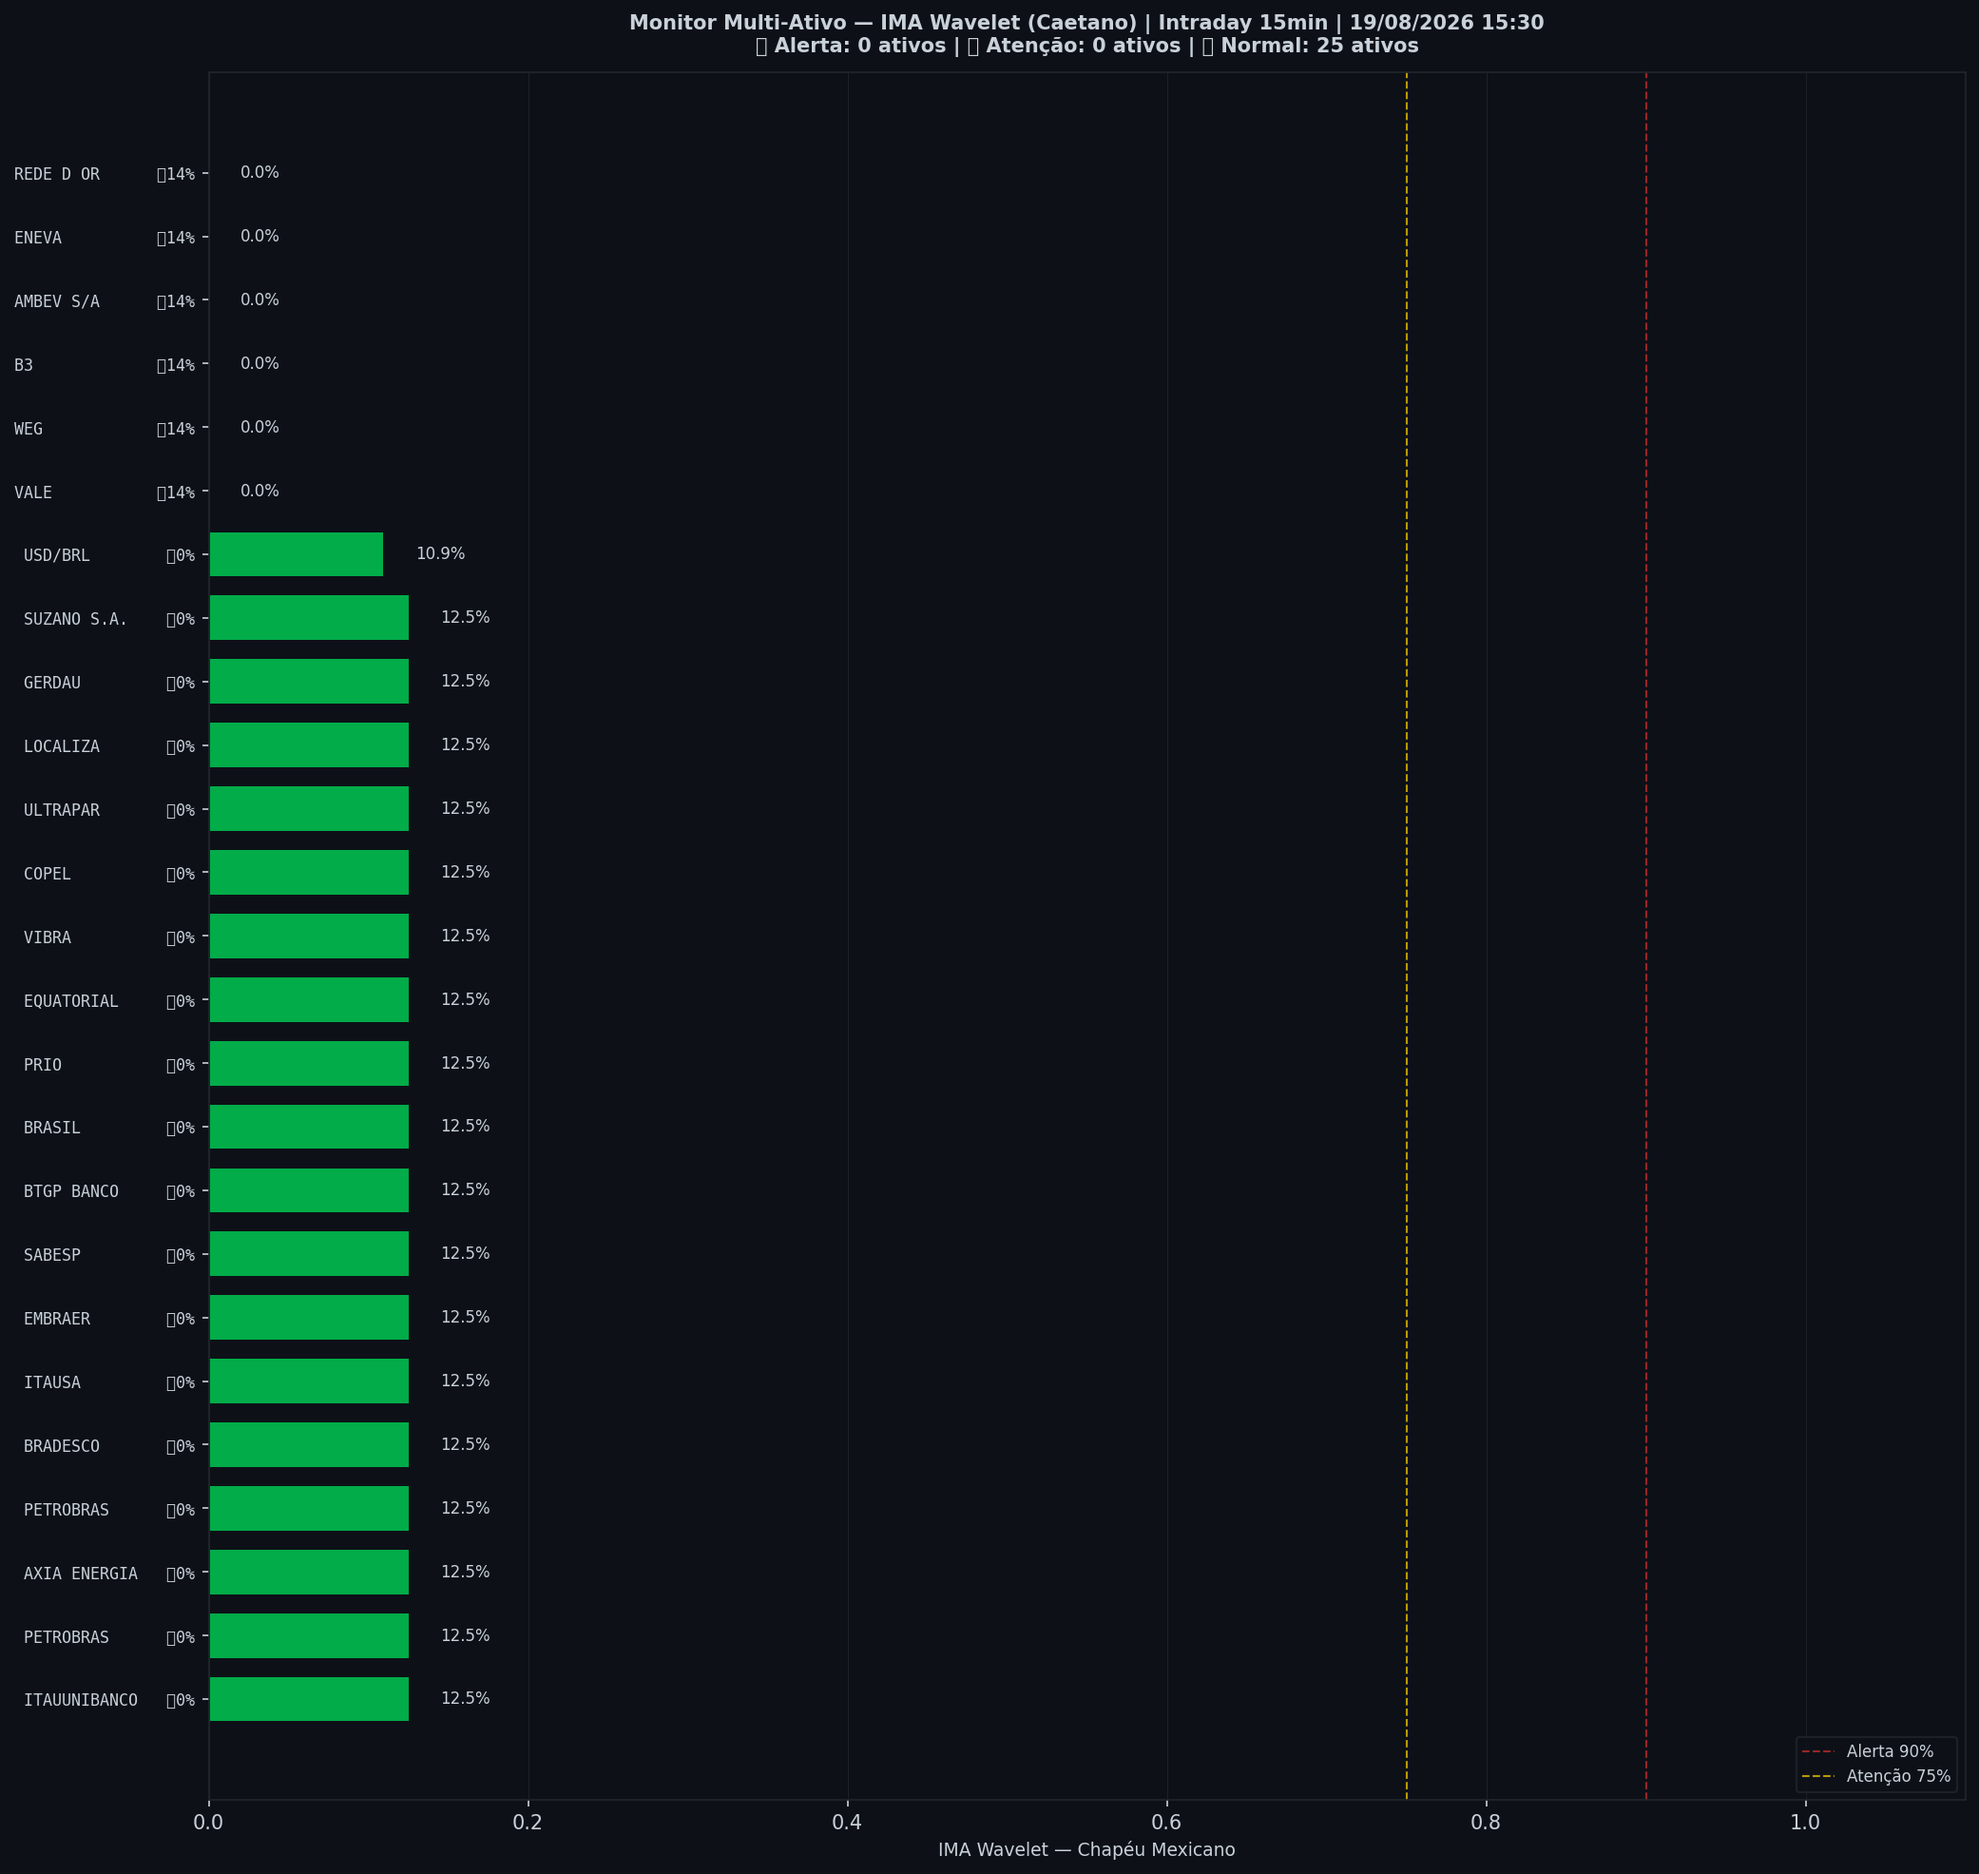
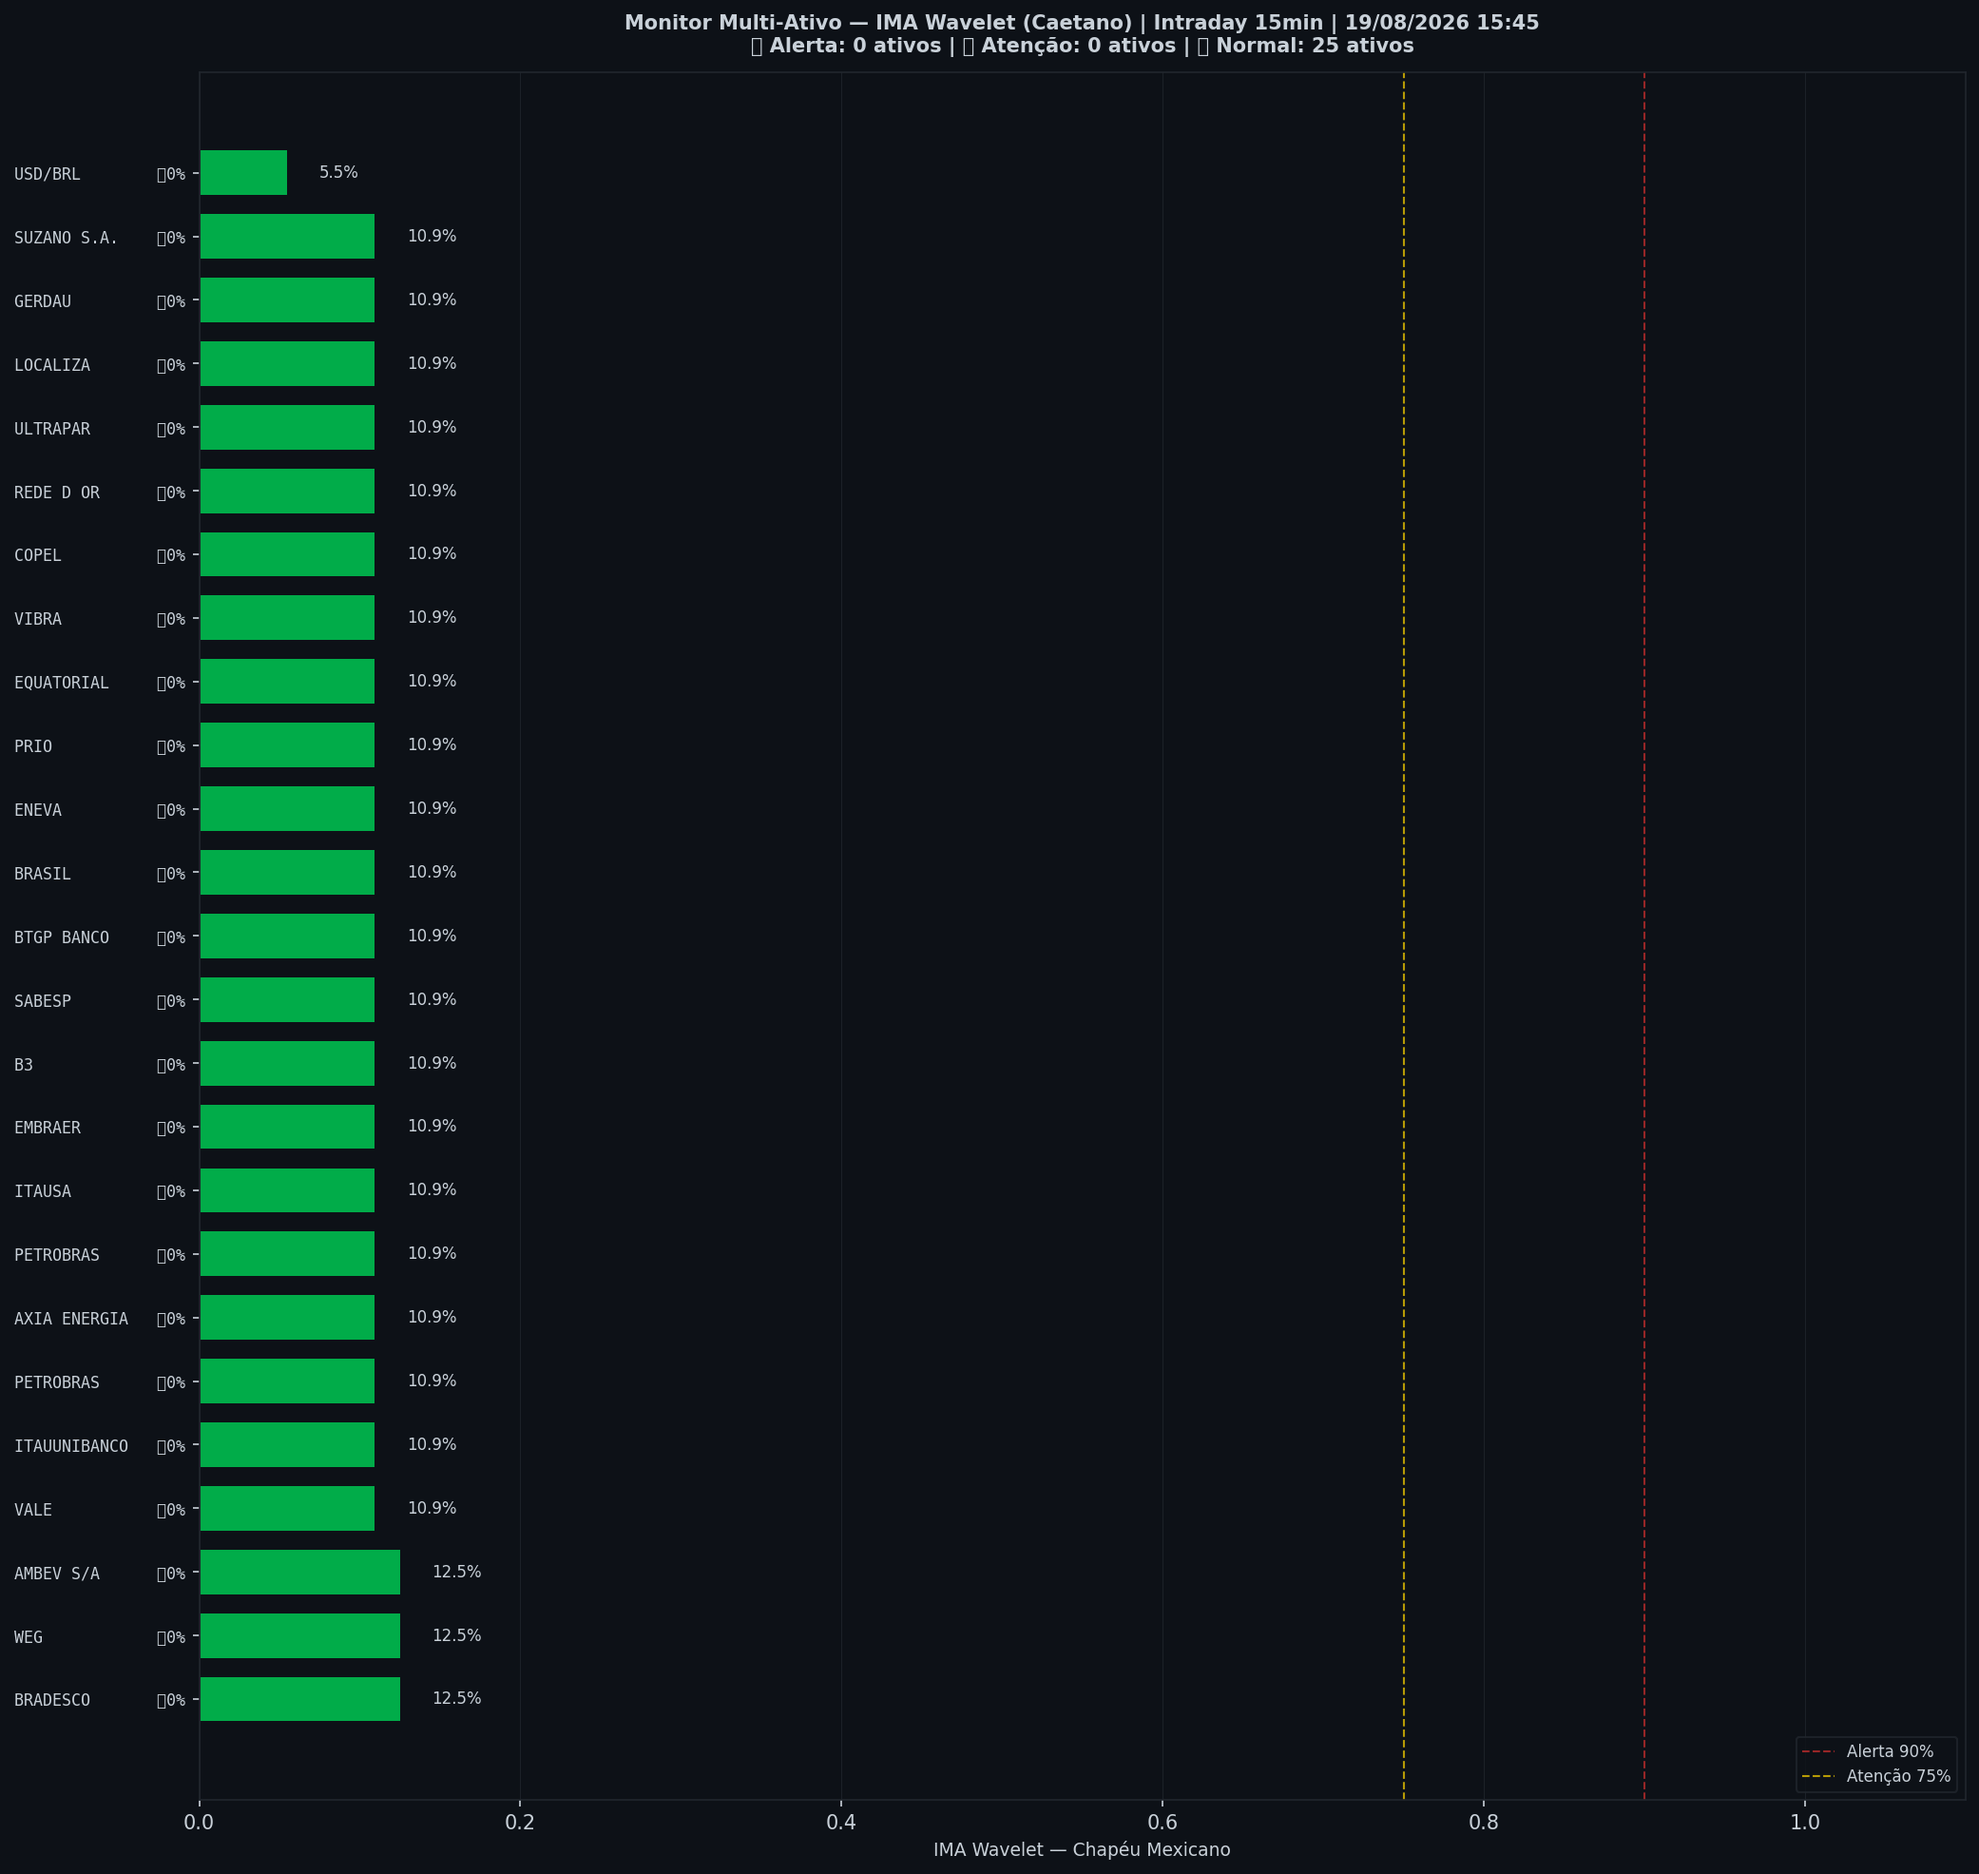
🤖 Auto: Sinal 19/08/2026 15:45

diff --git a/content/intraday/2026-08-19.md b/content/intraday/2026-08-19.md
@@ -1,20 +1,20 @@
 ---
-title: "🟡 Intraday 19/08/2026 14:45 BRT — AMARELO"
+title: "🟢 Intraday 19/08/2026 15:00 BRT — VERDE"
 date: 2026-08-19
 tags: [intraday]
 ---
 
-> [!warning] 🟡 **AMARELO** — Risco 50% · ▼ -5 p.p. vs leitura anterior
-> `██████████░░░░░░░░░░`
-> Atenção — padrão de coeficientes associado a quedas mais severas.
+> [!success] 🟢 **VERDE** — Risco 45% · ▼ -5 p.p. vs leitura anterior
+> `█████████░░░░░░░░░░░`
+> Mercado sem sinais relevantes de estresse.
 
 
 | Indicador | Valor |
 |---|---|
-| 🔴 ζ Crash — severidade da queda em curso | **50%** |
+| 🔴 ζ Crash — severidade da queda em curso | **45%** |
 | 🔵 ζ Entrada — estrutura de fundo | 0% |
 | 🫧 LPPL DS-Confidence | 0% |
-| 📊 Ibovespa | 167.955 pts |
+| 📊 Ibovespa | 167.926 pts |
 
 ![Gráfico do sinal](../graficos/sinal_intraday.png)
 
@@ -22,6 +22,7 @@ tags: [intraday]
 
 | Data | Zona | Risco | IMA Crash | Entrada | LPPL |
 |---|---|---|---|---|---|
+| 2026-08-19 15:00 | 🟢 VERDE | **45%** | 45% | 0% | 0% |
 | 2026-08-19 14:45 | 🟡 AMARELO | **50%** | 50% | 0% | 0% |
 | 2026-08-19 14:30 | 🟡 AMARELO | **55%** | 55% | 1% | 0% |
 | 2026-08-19 14:15 | 🟡 AMARELO | **63%** | 63% | 2% | 0% |
@@ -51,7 +52,6 @@ tags: [intraday]
 | 2026-08-18 15:15 | 🟢 VERDE | **35%** | 35% | 0% | 0% |
 | 2026-08-18 15:00 | 🟢 VERDE | **34%** | 34% | 0% | 0% |
 | 2026-08-18 14:45 | 🟢 VERDE | **35%** | 35% | 0% | 0% |
-| 2026-08-18 14:30 | 🟢 VERDE | **34%** | 34% | 0% | 0% |
 
 ## Monitor Multi-Ativo
 
@@ -59,35 +59,35 @@ tags: [intraday]
 
 | Zona | Ativo | Setor | IMA Crash | IMA Entrada |
 |---|---|---|---|---|
-| 🟢 | **ITAUUNIBANCO** | Financeiro | 12.5% | 0.0% |
-| 🟢 | **PETROBRAS** | Petróleo | 12.5% | 0.0% |
-| 🟢 | **AXIA ENERGIA** | Energia | 12.5% | 0.0% |
-| 🟢 | **PETROBRAS** | Petróleo | 12.5% | 0.0% |
 | 🟢 | **BRADESCO** | Financeiro | 12.5% | 0.0% |
-| 🟢 | **ITAUSA** | Financeiro | 12.5% | 0.0% |
-| 🟢 | **EMBRAER** | Outros | 12.5% | 0.0% |
-| 🟢 | **SABESP** | Saneamento | 12.5% | 0.0% |
-| 🟢 | **BTGP BANCO** | Financeiro | 12.5% | 0.0% |
-| 🟢 | **BRASIL** | Financeiro | 12.5% | 0.0% |
-| 🟢 | **PRIO** | Petróleo | 12.5% | 0.0% |
-| 🟢 | **EQUATORIAL** | Energia | 12.5% | 0.0% |
-| 🟢 | **VIBRA** | Energia | 12.5% | 0.0% |
-| 🟢 | **COPEL** | Energia | 12.5% | 0.0% |
-| 🟢 | **ULTRAPAR** | Outros | 12.5% | 0.0% |
-| 🟢 | **LOCALIZA** | Aluguel | 12.5% | 0.0% |
-| 🟢 | **GERDAU** | Siderurgia | 12.5% | 0.0% |
-| 🟢 | **SUZANO S.A.** | Papel/Celulose | 12.5% | 0.0% |
-| 🟢 | **USD/BRL** | Câmbio | 10.9% | 0.0% |
-| 🟢 | **VALE** | Mineração | 0.0% | 14.1% |
-| 🟢 | **WEG** | Industrial | 0.0% | 14.1% |
-| 🟢 | **B3** | Financeiro | 0.0% | 14.1% |
-| 🟢 | **AMBEV S/A** | Consumo | 0.0% | 14.1% |
-| 🟢 | **ENEVA** | Energia | 0.0% | 14.1% |
-| 🟢 | **REDE D OR** | Saúde | 0.0% | 14.1% |
+| 🟢 | **WEG** | Industrial | 12.5% | 0.0% |
+| 🟢 | **AMBEV S/A** | Consumo | 12.5% | 0.0% |
+| 🟢 | **VALE** | Mineração | 10.9% | 0.0% |
+| 🟢 | **ITAUUNIBANCO** | Financeiro | 10.9% | 0.0% |
+| 🟢 | **PETROBRAS** | Petróleo | 10.9% | 0.0% |
+| 🟢 | **AXIA ENERGIA** | Energia | 10.9% | 0.0% |
+| 🟢 | **PETROBRAS** | Petróleo | 10.9% | 0.0% |
+| 🟢 | **ITAUSA** | Financeiro | 10.9% | 0.0% |
+| 🟢 | **EMBRAER** | Outros | 10.9% | 0.0% |
+| 🟢 | **B3** | Financeiro | 10.9% | 0.0% |
+| 🟢 | **SABESP** | Saneamento | 10.9% | 0.0% |
+| 🟢 | **BTGP BANCO** | Financeiro | 10.9% | 0.0% |
+| 🟢 | **BRASIL** | Financeiro | 10.9% | 0.0% |
+| 🟢 | **ENEVA** | Energia | 10.9% | 0.0% |
+| 🟢 | **PRIO** | Petróleo | 10.9% | 0.0% |
+| 🟢 | **EQUATORIAL** | Energia | 10.9% | 0.0% |
+| 🟢 | **VIBRA** | Energia | 10.9% | 0.0% |
+| 🟢 | **COPEL** | Energia | 10.9% | 0.0% |
+| 🟢 | **REDE D OR** | Saúde | 10.9% | 0.0% |
+| 🟢 | **ULTRAPAR** | Outros | 10.9% | 0.0% |
+| 🟢 | **LOCALIZA** | Aluguel | 10.9% | 0.0% |
+| 🟢 | **GERDAU** | Siderurgia | 10.9% | 0.0% |
+| 🟢 | **SUZANO S.A.** | Papel/Celulose | 10.9% | 0.0% |
+| 🟢 | **USD/BRL** | Câmbio | 5.5% | 0.0% |
 
 ![Monitor multi-ativo](../graficos/multi_intraday.png)
 
-*Página atualizada em 19/08/2026 15:30 BRT (leitura da barra de 2026-08-19 14:45 BRT).*
+*Página atualizada em 19/08/2026 15:45 BRT (leitura da barra de 2026-08-19 15:00 BRT).*
 
 > [!info]- Como interpretar (clique para expandir)
 > - **ζ Crash**: fração dos coeficientes wavelet acima do corte (Caetano & Yoneyama 2009). Escala absoluta: ζ=0,90 = 90% dos coeficientes anômalos — historicamente, quedas com ζ≥0,90 foram mais fundas e mais longas. **Mede a severidade do movimento em curso, não prevê o início da queda.**

diff --git a/content/index.md b/content/index.md
@@ -4,23 +4,23 @@ date: 2026-08-19
 tags: [home]
 ---
 
-# 🟡 Sinal de Crise B3
+# 🟢 Sinal de Crise B3
 
 Monitoramento diário e intraday do Ibovespa — **IMA Wavelet** (Prof. Marco Antonio Leonel Caetano, ITA/INSPER) + **LPPL DS-Confidence** (Prof. Didier Sornette, ETH-Zurich).
 
-*Última atualização: 19/08/2026 15:30 BRT · ^BVSP · Intraday 15min · v4*
+*Última atualização: 19/08/2026 15:45 BRT · ^BVSP · Intraday 15min · v4*
 
-> [!warning] 🟡 **AMARELO** — Risco 50% · ▼ -5 p.p. vs leitura anterior
-> `██████████░░░░░░░░░░`
-> Atenção — padrão de coeficientes associado a quedas mais severas.
+> [!success] 🟢 **VERDE** — Risco 45% · ▼ -5 p.p. vs leitura anterior
+> `█████████░░░░░░░░░░░`
+> Mercado sem sinais relevantes de estresse.
 
 
 | Indicador | Valor |
 |---|---|
-| 🔴 ζ Crash — severidade da queda em curso | **50%** |
+| 🔴 ζ Crash — severidade da queda em curso | **45%** |
 | 🔵 ζ Entrada — estrutura de fundo | 0% |
 | 🫧 LPPL DS-Confidence | 0% |
-| 📊 Ibovespa | 167.955 pts |
+| 📊 Ibovespa | 167.926 pts |
 
 **Multi-ativo:** 0% em tensão (0🔴 0🟡 de 25 ativos)
 
@@ -32,7 +32,7 @@ Monitoramento diário e intraday do Ibovespa — **IMA Wavelet** (Prof. Marco An
 
 | Data | Zona | Risco | IMA | LPPL |
 |---|---|---|---|---|
-| [19 Aug 2026](diario/2026-08-19) | 🟡 AMARELO | **50%** | 50% | 0% |
+| [19 Aug 2026](diario/2026-08-19) | 🟢 VERDE | **45%** | 45% | 0% |
 | [18 Aug 2026](diario/2026-08-18) | 🟢 VERDE | **10%** | 10% | 0% |
 
 ## Navegação

diff --git a/content/historico.md b/content/historico.md
@@ -7,6 +7,7 @@ tags: [historico]
 
 | Data | Modo | Zona | Risco | IMA | LPPL |
 |---|---|---|---|---|---|
+| 2026-08-19 15:00 | intraday | 🟢 VERDE | 45% | 45% | 0% |
 | 2026-08-19 14:45 | intraday | 🟡 AMARELO | 50% | 50% | 0% |
 | 2026-08-19 14:30 | intraday | 🟡 AMARELO | 55% | 55% | 0% |
 | 2026-08-19 14:15 | intraday | 🟡 AMARELO | 63% | 63% | 0% |
